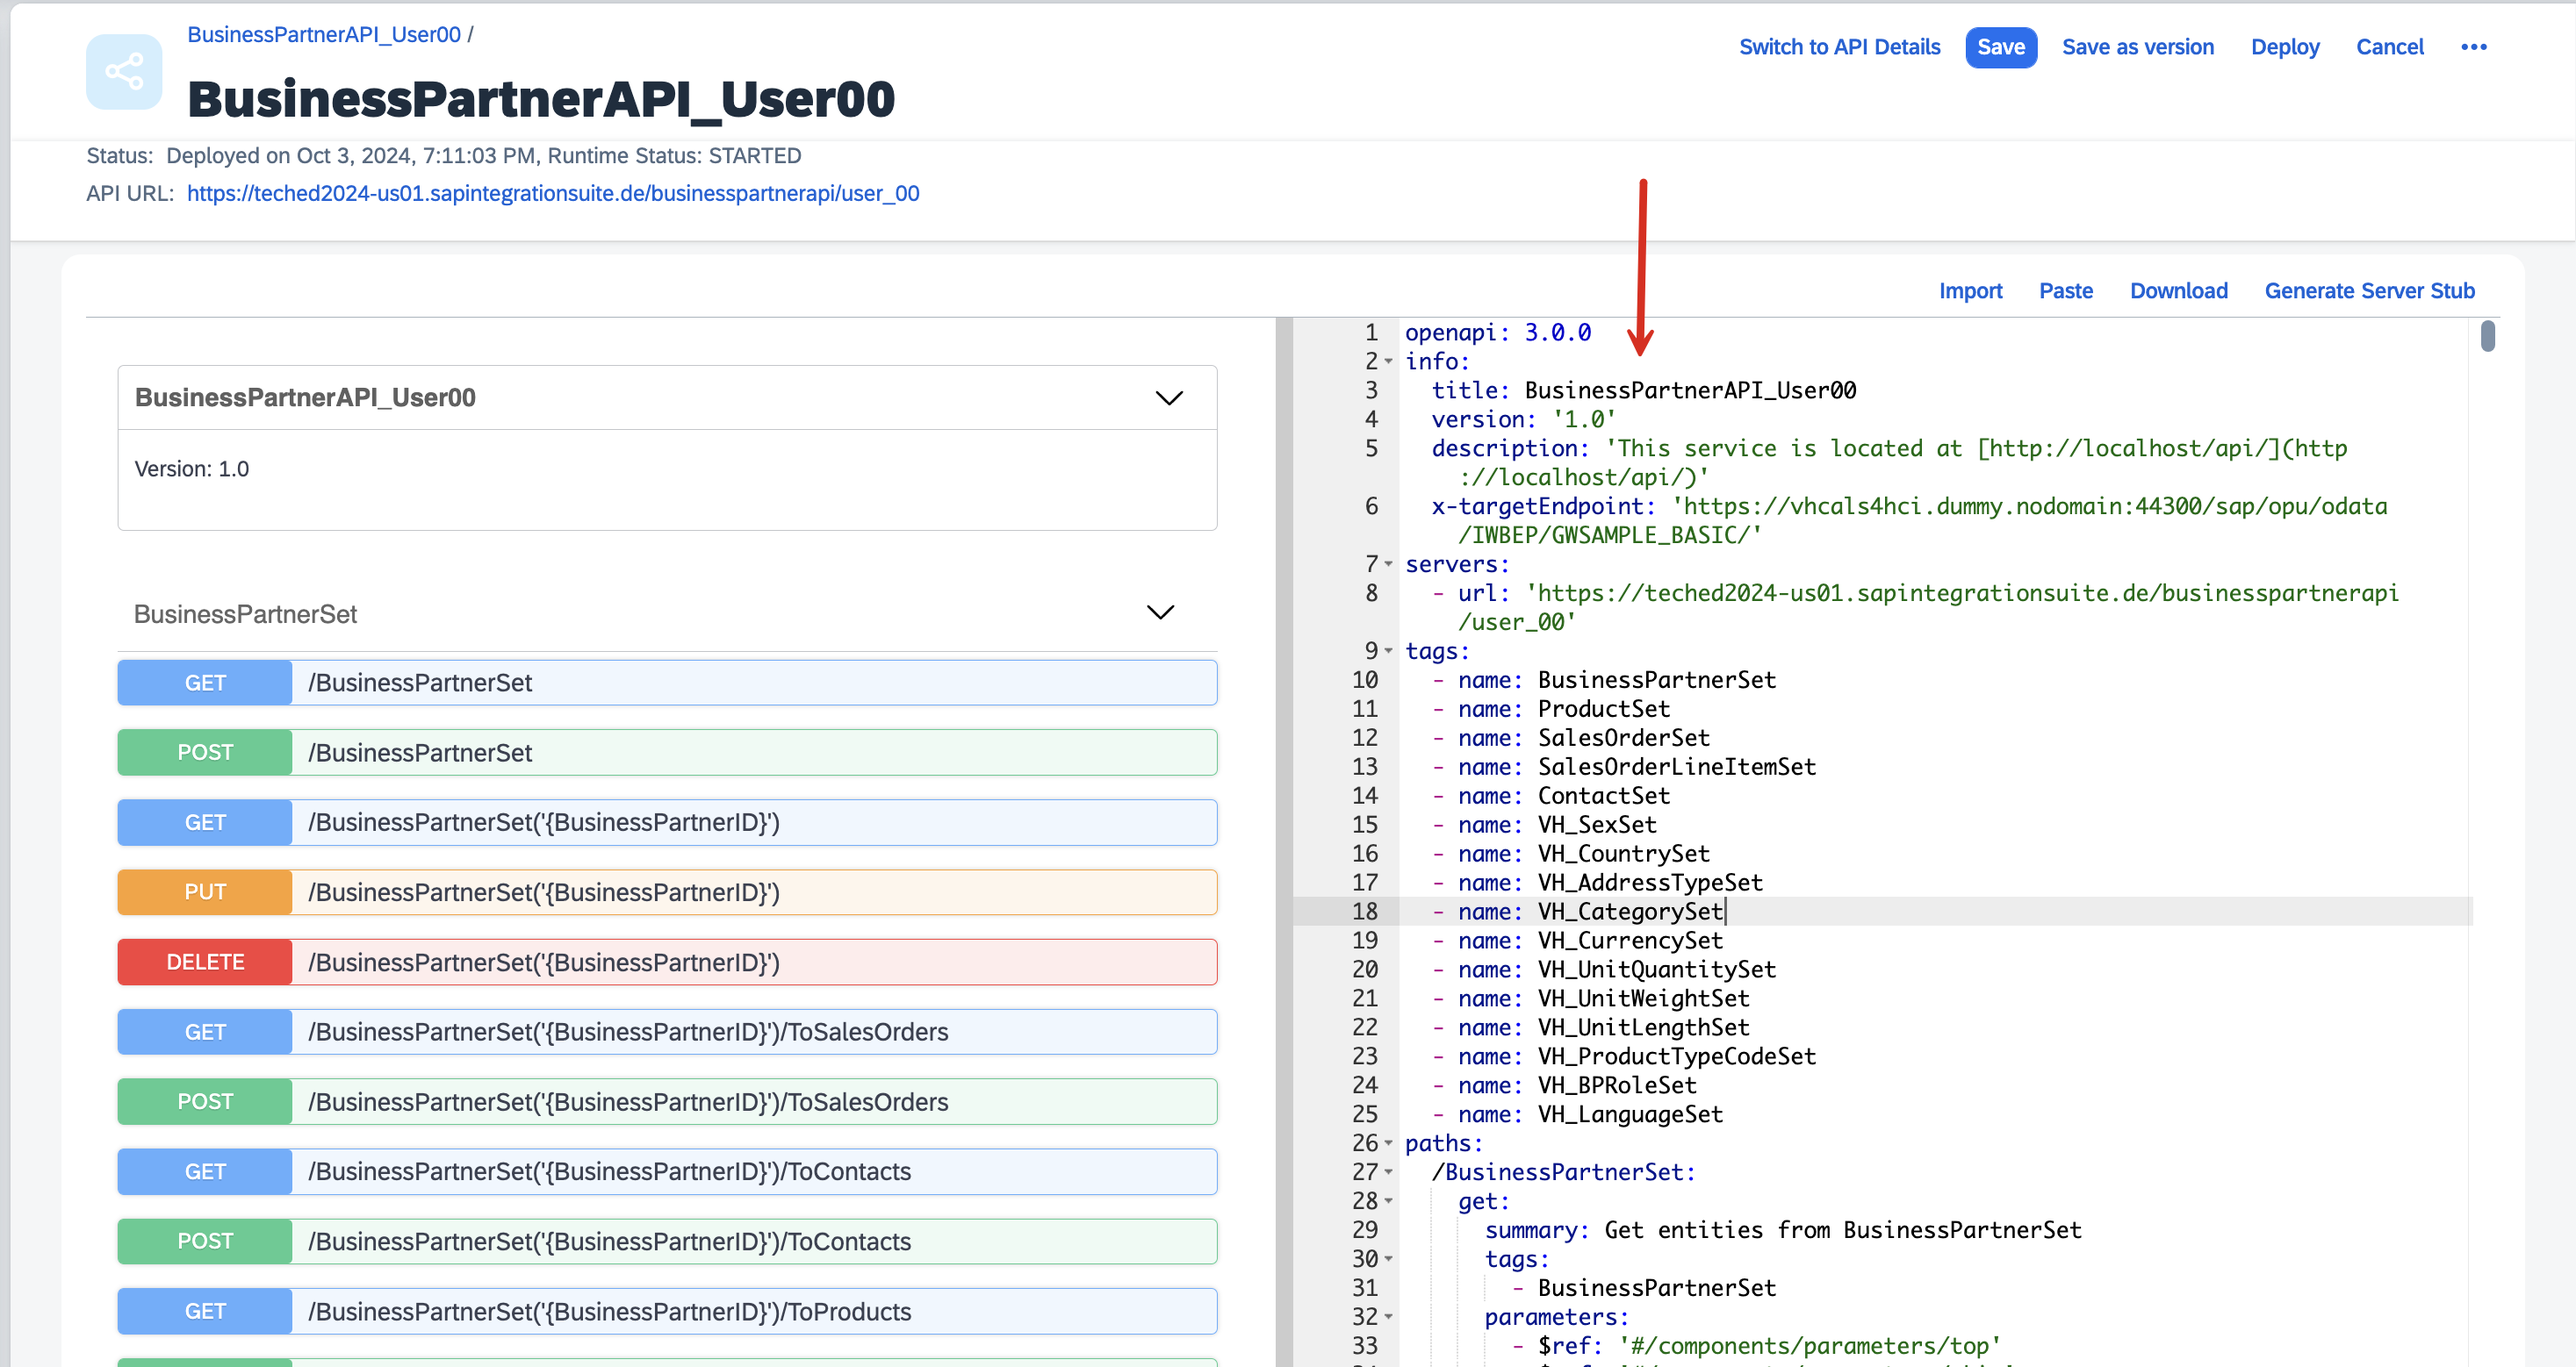
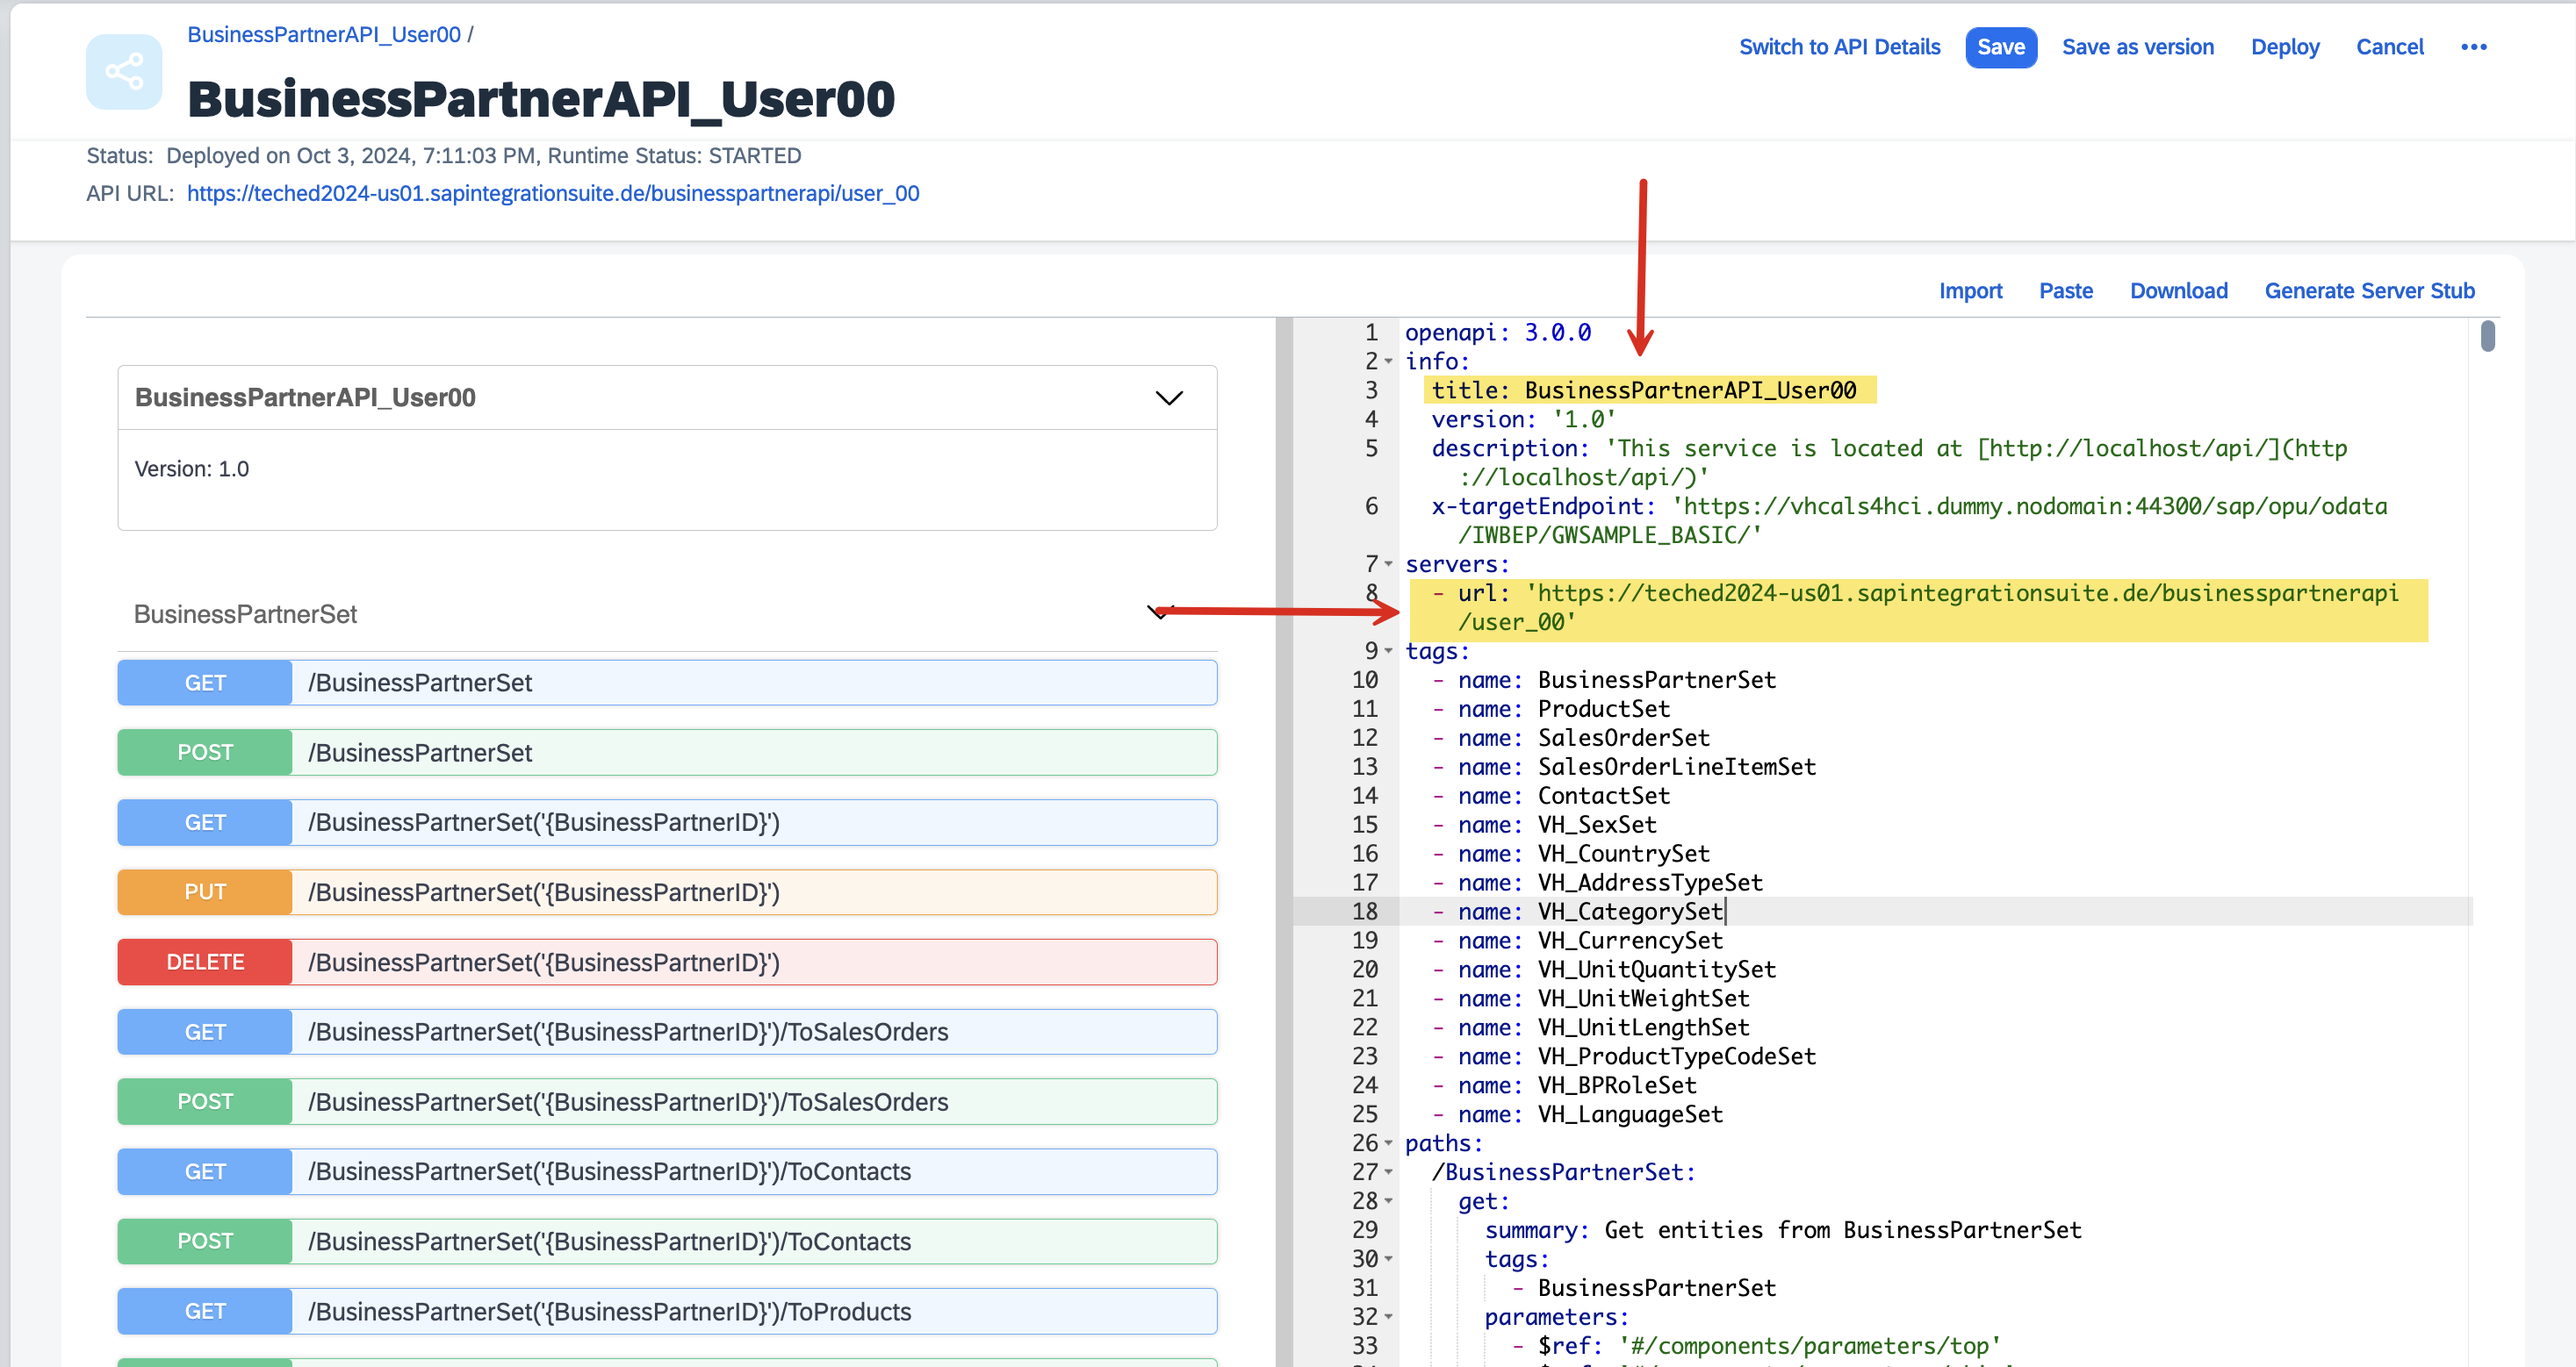
adding troubleshooting section

Changed region(s): [[0.4342, 0.4005, 0.9615, 0.4929], [0.5273, 0.2773, 0.7444, 0.3081]]

diff --git a/exercises/ex5/README.md b/exercises/ex5/README.md
@@ -282,11 +282,13 @@ An interesting thing to note is that though Bruno client succeeded in making a r
 
 ![](/exercises/ex5/images/ex5_2_16.png)
 
-<br> This opens up the OpenAPI spec file.
+<br> This opens up the OpenAPI spec file. 
+<br>Take a backup of this file in your local file system. Make sure you copy the `title` and `url` attributes from the Spec file as indicated in the screenshot. You will need this in the next step.
 
 ![](/exercises/ex5/images/ex5_2_17.png)
 
-<br> Clear the content and paste the contents of the `gwsample-basic.YAML` file from the [resources](/exercises/ex5/resources) folder.
+<br> Clear the text area and paste the contents of the `gwsample-basic.YAML` file you downloaded earlier from the [resources](/exercises/ex5/resources) folder.
+<br> Make sure to paste back the values of the `title` and `url` attributes from your original spec file.
 
 ![](/exercises/ex5/images/ex5_2_18.png)
 
@@ -320,6 +322,10 @@ You should see a failure message coming from the API Validation step.
 <br> Strip off `br` from the header and make a new request. You should see the call getting successfully executed. 
 
 ![](/exercises/ex5/images/ex5_2_25.png)
+
+## Troubleshooting tips
+
+Here are few common pitfalls to avoid.
 
 <br>Do you see a 500 Internal Server Error like so? If that's the case, chances are that you haven't copied over the Open API Spec file (and have just manually enhanced the OpenAPI spec definitions.)
 
